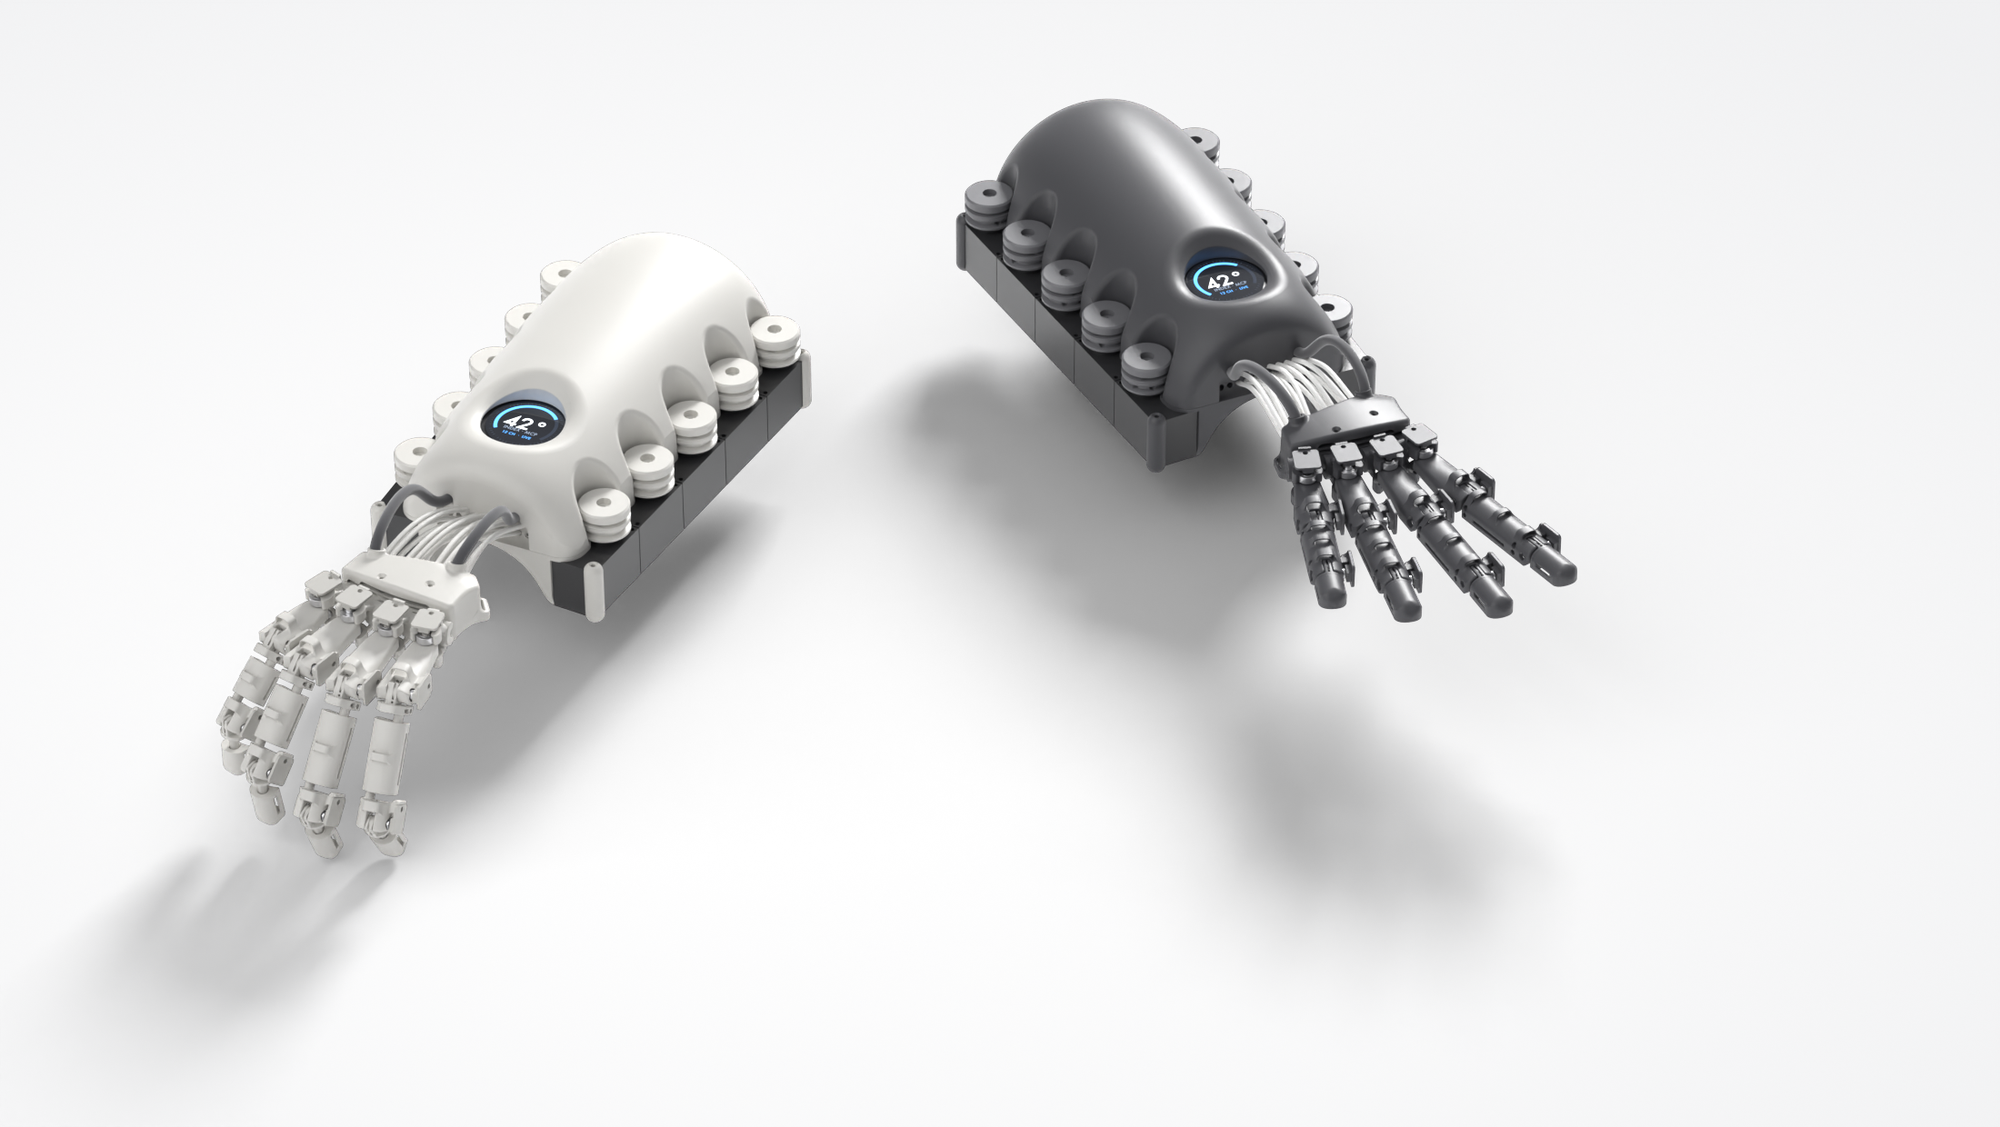
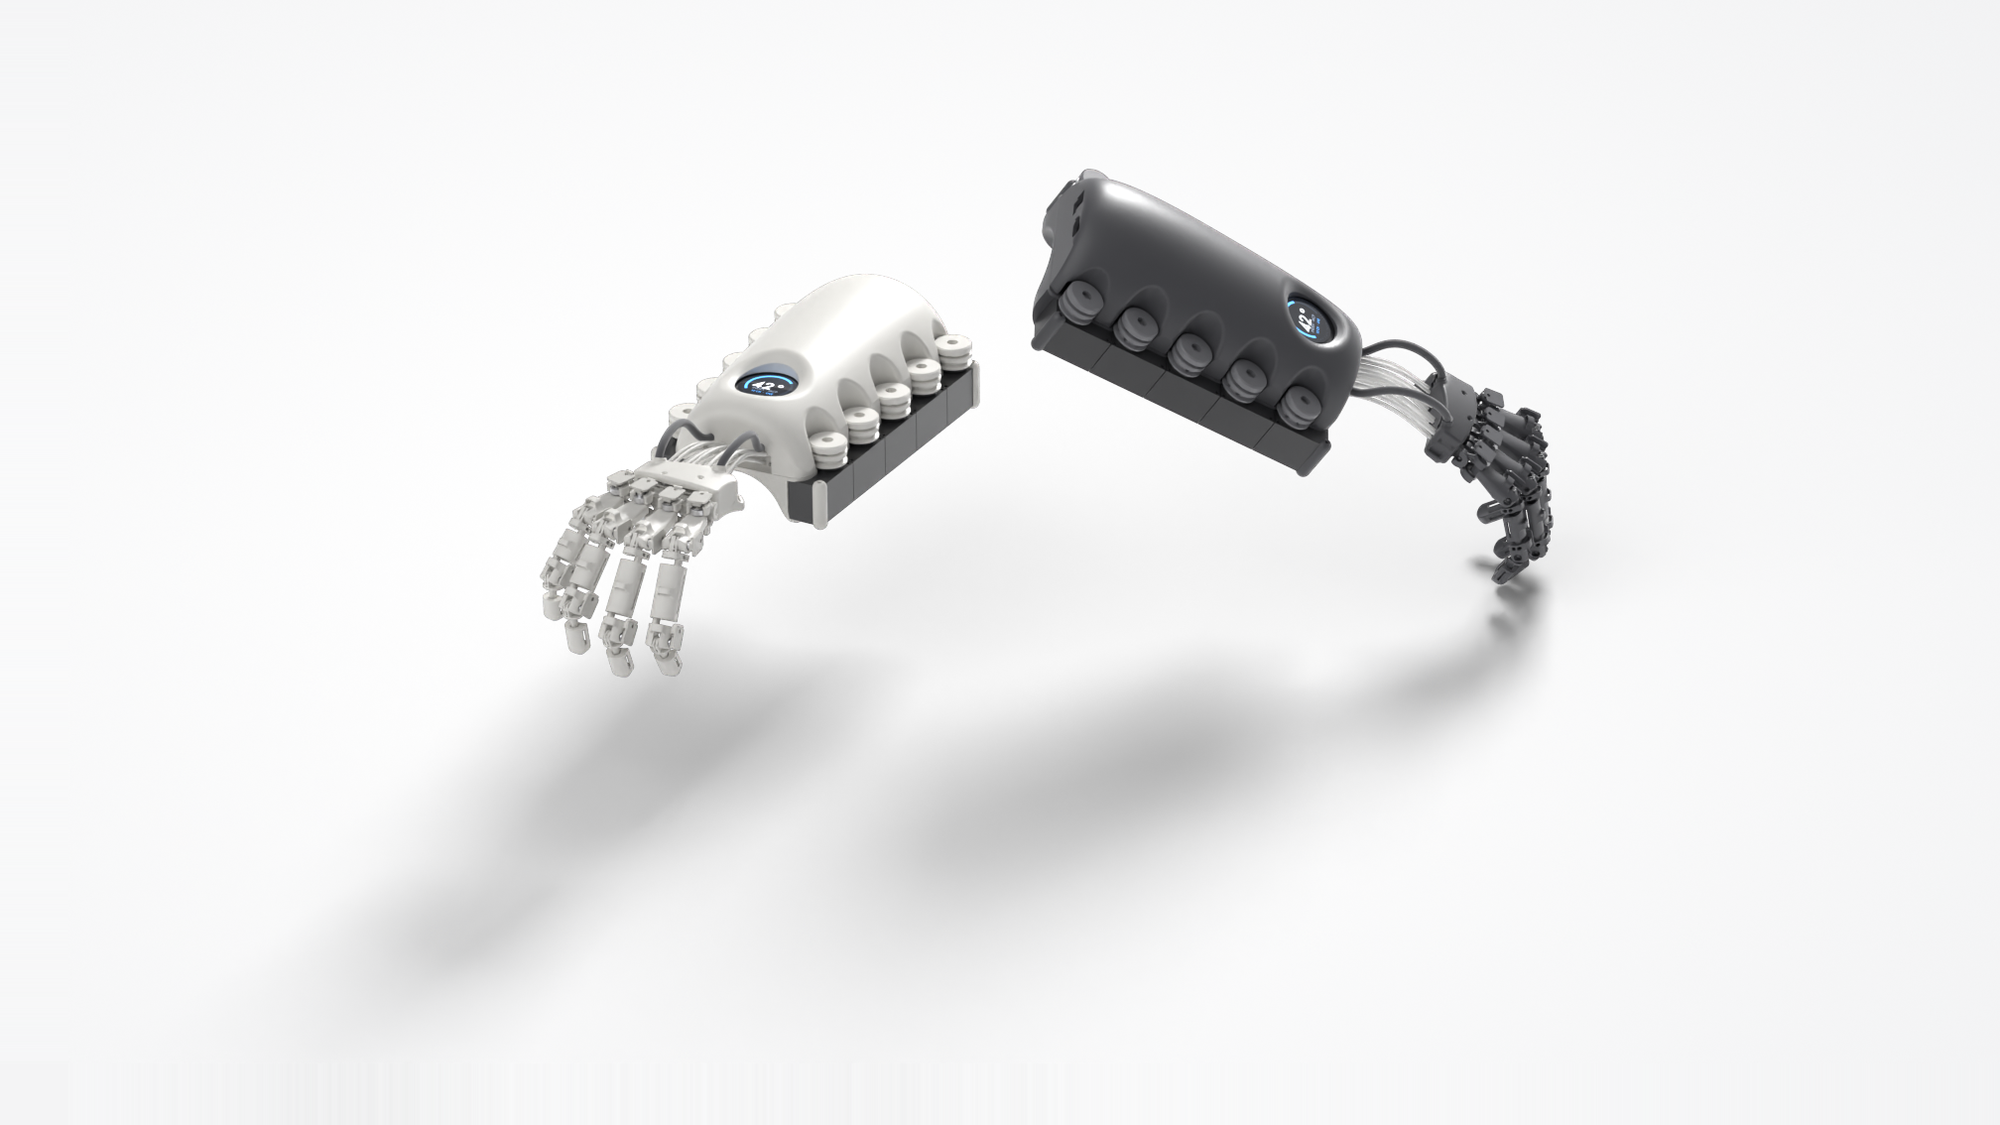
Lead with what the platform is for, and show the software
The page explained what the device is but never said why anyone should care.
It now opens with the pitch - read every finger, drive every finger - and a
section on what the hardware makes possible: robot teleoperation, occlusion-free
training data, per-finger force feedback, rehabilitation, precision machine
control.

That section is explicitly labelled as directions rather than features, and
points at the verified-status section, so the promise and the evidence stay
separate. Selling the potential is the point of open-sourcing it; selling it as
already built would be a lie the first builder would catch.

Adds the four software surfaces - web front end, operator console, AR layer,
Android companion - captured live from the running apps rather than from the
frozen thesis snapshot, with the AR and Android layers marked as prototypes.

Adds TAKTO-SIGN as the worked example, carrying its own honest scope: a
signer-dependent isolated-sign recogniser, not open-vocabulary translation.

Hero is now both units in the same relaxed pose, cropped to exact centring
(equal left/right and top/bottom margins). The Personalize triptych is
re-rendered with the displays lit.

Changed region(s): [[0.031, 0.0622, 0.806, 0.9333]]

diff --git a/README.md b/README.md
@@ -4,9 +4,11 @@
 
 # TAKTO ONE
 
-### A sensor-integrated, tendon-driven hand exoskeleton — open from the CAD up.
+### Open hand control. Read every finger. Drive every finger.
 
-Twelve magnetic joint encoders · Embedded Dynamixel control, no host PC in the loop · A live browser digital twin
+TAKTO ONE measures the angle of **twelve finger joints at 60 Hz** and can pull them back through
+tendons. It is a wearable platform for reading the human hand precisely, and for putting force
+back into it — with every file needed to build one.
 
 [![Software: Apache-2.0](https://img.shields.io/badge/software-Apache--2.0-blue.svg)](LICENSE.md)
 [![Hardware: CERN-OHL-S-2.0](https://img.shields.io/badge/hardware-CERN--OHL--S--2.0-orange.svg)](LICENSE.md)
@@ -18,25 +20,40 @@ Twelve magnetic joint encoders · Embedded Dynamixel control, no host PC in the 
 
 ---
 
-<div align="center">
+## Why a hand, and why this one
 
-### See it move
+A camera watching your hand loses fingers the moment they cross, curl, or leave frame. A glove
+full of flex sensors drifts. TAKTO ONE puts a **magnetic encoder on the joint itself** — three
+per finger, twelve in all — so the measurement does not care about occlusion, lighting, or where
+you are standing. The microcontroller owns the motor bus, so the device does not need a computer
+in the loop to act.
 
-https://github.com/molanocortes/takto-one/raw/main/docs/media/takto-one-film.mp4
+That combination — **per-joint truth going in, tendon force coming out, no host required** — is
+what makes it a platform rather than a gadget. It is a hand-shaped input and output device, and
+what you point it at is up to you.
 
-<a href="https://github.com/molanocortes/takto-one/raw/main/docs/media/takto-one-film.mp4"><img src="docs/media/film-poster.png" alt="Watch the TAKTO ONE film" width="88%"></a>
+## What people could build with this
 
-<sub><a href="https://github.com/molanocortes/takto-one/raw/main/docs/media/takto-one-film.mp4"><b>▶ Watch the film</b></a> · 30 seconds · 1280×720</sub>
+**None of the following is a finished feature.** They are the directions this hardware opens,
+listed because the reason to open-source a platform is that other people take it somewhere the
+author could not. What is actually built and measured today is in
+[Where the project really stands](#where-the-project-really-stands) below.
 
-</div>
+| | |
+| --- | --- |
+| 🤖 **Teleoperate a robot hand** | Your fingers become the controller. Per-joint angles map onto a robot hand directly, without a camera rig or a motion-capture volume. Reach further than the operator can stand: an undersea manipulator, a hot cell, a machine on another continent. |
+| 🧠 **Generate training data machines can trust** | Vision-based hand datasets inherit vision's blind spots. Joint encoders give clean, occlusion-free, per-joint ground truth at 60 Hz — labelled by physics rather than by a model's guess. Untethered, so the data comes from real tasks rather than a capture studio. |
+| 🤟 **Sign language capture and recognition** | Already underway, not speculation — see [Sign language](#sign-language-a-worked-example) below. |
+| 🎮 **Force feedback, per finger** | A PlayStation 5 trigger can vary its resistance as you press. This device has a tendon and a motor on each finger, so the same idea generalises: feel a virtual wall, a trigger pull, the give of tissue, the weight of a load — finger by finger rather than through one rumbling handle. |
+| 🩺 **Rehabilitation and assessment** | Range of motion measured objectively, session over session, instead of estimated by eye. Assisted movement for a hand that cannot complete it alone. |
+| 🕹 **High-precision machine control** | Operating equipment where a joystick is too blunt and a touchscreen is impossible — gloved, wet, in the dark, or while your eyes are needed elsewhere. |
+| 🥊 **Whatever you are actually here for** | A boxer driving a sparring robot, a surgeon rehearsing at distance, a musician mapping fingers to synthesis. The platform does not care. |
 
----
+The honest version: **the hardware to sense and actuate is here and working. Almost all of that
+list is unbuilt.** That is the invitation, and it is why the project is open rather than
+protected.
 
-## What it is
-
-A wearable robotic hand platform built end to end as a master's thesis — mechanics, industrial
-design, custom PCBs, embedded firmware, motor control, and a live web interface. It is published
-so other people can study it, build it, and take it further.
+## The machine
 
 | | |
 | --- | --- |
@@ -128,7 +145,56 @@ The embedded Dynamixel driver is also maintained standalone as
 
 ---
 
-## What is verified, and what is not
+---
+
+## The software that ships with it
+
+Four surfaces, all reading the same 60 Hz stream from the device. All of them run with **no
+hardware at all** — the bridge's `--sim` mode feeds synthetic joints, so you can explore the
+whole stack before you print a single part.
+
+<table>
+<tr>
+<td width="50%"><img src="docs/media/ui-website.png" alt="Web front end" width="100%"></td>
+<td width="50%"><img src="docs/media/ui-console.png" alt="Operator console" width="100%"></td>
+</tr>
+<tr>
+<td align="center"><sub><b>Web front end</b> — the project's public face</sub></td>
+<td align="center"><sub><b>Operator console</b> — live 3D twin, per-joint encoders, motor state, calibration</sub></td>
+</tr>
+</table>
+
+<table>
+<tr>
+<td width="62%"><img src="docs/media/ui-ar.png" alt="AR layer" width="100%"></td>
+<td width="38%"><img src="docs/media/ui-android.png" alt="Android companion" width="100%"></td>
+</tr>
+<tr>
+<td align="center"><sub><b>AR layer</b> — the hand twin and capture, touch and rhythm modules in space</sub></td>
+<td align="center"><sub><b>Android companion</b> — sessions and twin on a phone</sub></td>
+</tr>
+</table>
+
+> The AR and Android layers are **working prototypes, not polished products.** They are included
+> because they show the shape of the platform, and because they are more useful in your hands
+> than on a private disk.
+
+## Sign language: a worked example
+
+The clearest demonstration that this is a platform and not a single-purpose device is
+**TAKTO-SIGN** — a German Sign Language capture, training and live-recognition stack built
+on exactly this hardware. It records finger bend and hand orientation at 60 Hz, learns a
+designed vocabulary, and recognises signs live. Like everything else here, it runs end to end
+with no hardware through `--sim`.
+
+Its own scope statement is worth repeating, because it is the right way to talk about work like
+this: it is a **signer-dependent isolated-sign recogniser**, with a continuous scripted-sentence
+path and a measured cross-signer result. **It is not open-vocabulary translation.**
+
+That is one application, built by one person, on this platform. It is meant as an example of
+what the hardware supports — not as the limit of it.
+
+## Where the project really stands
 
 Being precise about this matters more than a longer feature list.
 
